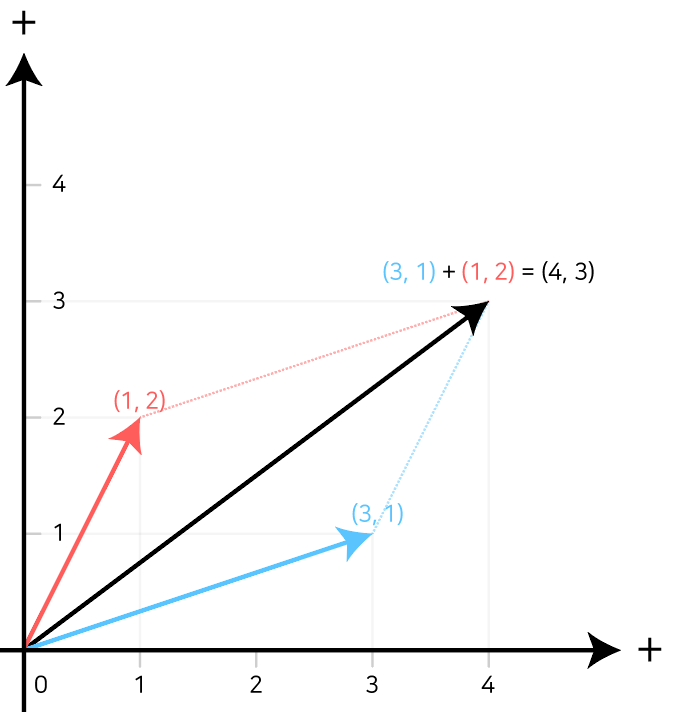
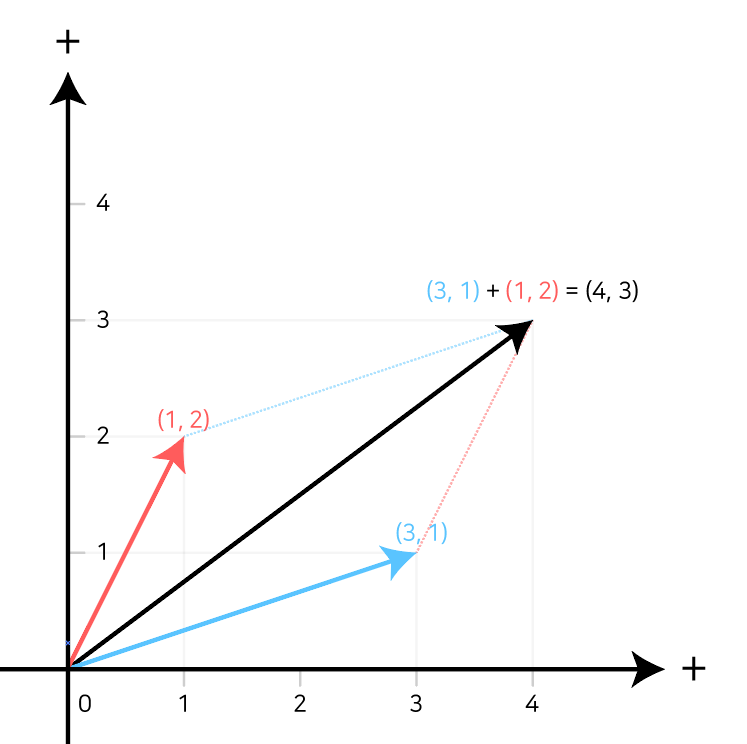
update post

diff --git a/_posts/2023-04-23-Cartesian-coordinate-system.md b/_posts/2023-04-23-Cartesian-coordinate-system.md
@@ -107,13 +107,13 @@ $$
 \therefore \vec{v_{1}} + \vec{v_{2}} = \vec{v_{2}} + \vec{v_{1}}
 $$
 
+벡터 공간에서 벡터의 합과 스칼라 곱셈에 따라 점의 움직임이 어떻게 달라지는지 시각화 하여 확인해봅시다.
+
 ![Cartesian coordinate system](/assets/images/Docs/Cartesian%20coordinate%20system/image%20(2).png){: .align-center}
 
 (벡터의 합 연산)
 {: .text-center}
 
-벡터 공간에서 두 연산에 따라 점의 움직임이 어떻게 달라지는지 확인해봅시다. 
-진행한 방법과 동일하게 벡터의 이항연산에서 왼쪽의 벡터는 물체를 구성하는 점으로, 오른쪽의 벡터는 점을 이동하는 힘으로 연산을 시각화 해봅시다.
 벡터의 합은 위 이미지와 같이 평면의 점을 각 축에 대해 독립적으로 평행이동 시키는 작업으로 해석할 수 있습니다.
 
 ![Cartesian coordinate system](/assets/images/Docs/Cartesian%20coordinate%20system/image%20(3).png){: .align-center}
@@ -121,11 +121,13 @@ $$
 (스칼라 곱셈)
 {: .text-center}
 
-다음으로 스칼라 곱셈의 시각적 의미를 살펴봅시다. 벡터 ${\vec{v}}$에 스칼라 곱셈을 하여 생성된 벡터는 원점을 지나고 벡터와 평행한 직선상에 위치합니다. 
+위와 같이 스칼라 곱셈을 시각화 해봤습니다. 
+벡터 ${\vec{v}}$에 스칼라 곱셈을 하여 생성된 벡터는 원점을 지나고 벡터와 평행한 직선상에 위치합니다. 
 따라서 스칼라 곱셈의 결과는 항상 검은색 점선으로 표현한 원점을 지나는 직선상의 벡터를 만들어냅니다.
 
 ### 벡터의 크기와 이동
-벡터 ${\vec{v}}$의 크기는 원점으로 부터의 거리를 의미하며 절댓값 기호 ${|\vec{v}|}$ 를 사용해 구할 수 있습니다. 벡터의 크기도 동일하게 원점으로부터의 최단거리를 의미합니다. 
+벡터 ${\vec{v}}$의 크기는 원점으로 부터의 거리를 의미하며 절댓값 기호 ${|\vec{v}|}$ 를 사용해 구할 수 있습니다. 
+벡터의 크기도 동일하게 원점으로부터의 최단거리를 의미합니다. 
 
 수학에서 일반적인 표기법으로 벡터의 크기는 절댓값 기호를 두 번 사용하여 표기하지만 이 포스트에서는 하나만 사용합니다.
 {: .notice--info}
@@ -143,7 +145,10 @@ $$
 
 이렇게 측정된 벡터의 크기 역시 절댓값 기호와 동일한 것을 사용합니다. 벡터${(x,y)}$의 크기를 구하는 공식은 위와 같습니다.
 
-벡터의 크기는 노름(Norm)이라는 용어로 부르기도 합니다. 벡터의 크기에 관련된 유용한 표기방법과 수식을 알아봅시다. 
+벡터의 크기는 노름(Norm)이라는 용어로 부르기도 합니다.
+{: .notice--info}
+
+벡터의 크기에 관련된 유용한 표기방법과 수식을 알아봅시다. 
 먼저 크기가 1인 벡터를 **단위 벡터(unit vector)**라고 합니다. 
 단위 벡터는 벡터의 크기를 측정하는 기준이 되며, 앞으로 벡터와 관련된 다양한 응용식을 전개하는데 자주 사용될 것입니다. 
 단위 벡터는 다음과 같이 모자 기호(Hat)을 씌워 ${\hat{v}}$의 형태로 표시합니다.
@@ -162,7 +167,7 @@ $$
 \hat{v} = \frac {\vec{v}} {|\vec{v}|}
 $$
 
-임의의 벡터 ${\vec{v}}$ 를 크기가 1인 단위벡터 ${\hat{v}}$로 다듬는 작업을 정규화(Normalize)한다 라고 부르며 수식은 위와 같습니다.
+임의의 벡터 ${\vec{v}}$를 크기가 1인 단위벡터 ${\hat{v}}$로 다듬는 작업을 정규화(Normalize)한다 라고 부르며 수식은 위와 같습니다.
 
 TMI : 위 계산은 HLSL에서 x / length(x) 연산과 같으며, normalize() 라는 이름의 함수로 만들어져있습니다. 
 {: .notice--info}
